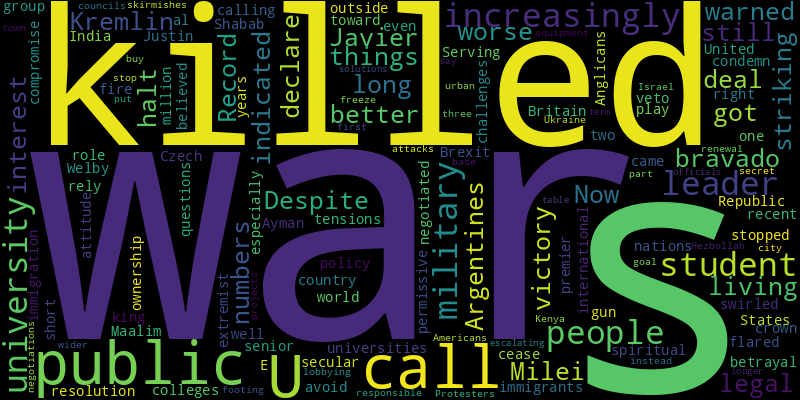
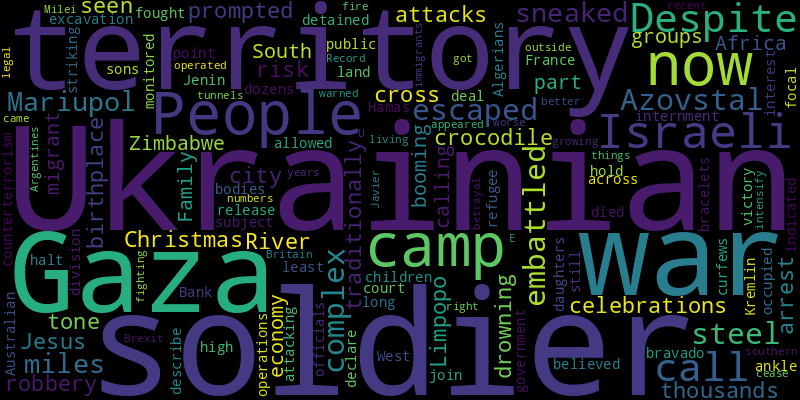
chore(bot): 👿 auto commit

diff --git a/README.md b/README.md
@@ -2,32 +2,33 @@
 Auto RSS New York Times and Generate Word Cloud
 
 ## New York Times Global News
+* How a Ukrainian soldier escaped from the embattled Azovstal steel complex in Mariupol and sneaked 125 miles to Ukrainian territory.
+* The war in Gaza has prompted the city, traditionally seen as the birthplace of Jesus, to tone down its Christmas celebrations.
+* People by the thousands risk crocodile attacks, robbery, drowning and arrest to cross the Limpopo River from Zimbabwe to South Africa, part of a booming migrant economy.
+* Family groups have been calling for the excavation of land believed to hold the bodies of at least 50 children — the sons and daughters of Algerians who fought for France — who died in internment camps.
+* An Australian high court allowed the release of dozens of detained people who are now subject to curfews and monitored by the government with ankle bracelets.
+* The Jenin refugee camp in the Israeli-occupied West Bank is a focal point of what Israeli officials describe as counterterrorism operations across the territory.
 * Despite its bravado in public, the Kremlin has indicated its interest in striking a deal to halt the war — so long as it could still declare victory.
+* More soldiers would join a division attacking Hamas-operated tunnels in southern Gaza. Despite growing calls for a cease-fire, fighting appeared to intensify.
 * Javier Milei warned that things would get worse before they got better. Now Argentines are living it.
 * Record numbers of legal immigrants came to Britain from outside the E.U. in recent years. Some on the right call that a “Brexit betrayal.”
-* The country’s public colleges and universities increasingly rely on international students, especially from India, even as tensions between the two nations have flared.
-* The compromise resolution, negotiated to avoid a veto from the United States, stopped well short of calling for a cease-fire.
-* Serving as the spiritual leader of 85 million Anglicans in an increasingly secular world is just one of the challenges for Justin Welby. He also had a king to crown and immigration policy to condemn.
-* After a student killed 14 people at a premier university, questions swirled. Did the Czech Republic’s permissive attitude toward gun ownership play a role?
-* Maalim Ayman, a senior leader of the extremist group al-Shabab, was believed responsible for attacks in Kenya on a university town that killed 148 people, and on a U.S. military base that killed three Americans.
-* Protesters are lobbying city councils to freeze urban renewal projects and buy military equipment instead, part of a wider call to put Ukraine on a war footing.
-* The first goal of the secret negotiations is to stop skirmishes between Israel and Hezbollah from escalating into an all-out war, but longer-term solutions are also on the table, officials say.
 
 ![Global](./global.png)
 ## New York Times United States News
-* The case was initially seen as an illustration of the city’s crime and homelessness woes. Further evidence challenged that narrative.
-* The ruling, coming just months after liberals gained a 4-to-3 majority on the State Supreme Court, could undo gerrymanders that have given Republicans lopsided control of the State Legislature.
+* Domestic shootings are a small portion of the city’s violence, but victims’ advocates say the new spike is worrisome.
 * Peter Cichuniec and Jeremy Cooper were convicted of criminally negligent homicide, but the jury split on the assault charges, in an unusual prosecution of medical personnel.
-* Landon Bryant talks about grits, prayer lists and humidity, addressing a diverse audience bound by its fascination with a colorful, complicated place.
-* Mississippians say they’ve been shocked with Tasers, beaten with batons, pistol-whipped and waterboarded by Rankin County deputies, for decades.
-* This week’s debate over his very eligibility for office served as a stark reminder that anyone else facing such a wide array of legal problems would have left the political stage long ago.
-* In the past month alone, the Iranian-backed group has launched more than 100 attacks against commercial vessels in the Red Sea.
-* The former president’s claim that he is immune from prosecution will now be taken up by a federal appeals court — and could end up back in front of the justices within weeks.
+* The case was initially seen as an illustration of the city’s crime and homelessness woes. Further evidence challenged that narrative.
 * Testimony in a National Labor Relations Board hearing is challenging the amateurism model that has remained a bedrock of college athletics as it has evolved into a billion-dollar business.
-* Candidates for the Senate and House have expressed concern that the president has not done enough to build an operation or excite voters.
+* The Florida governor entered the year flush with cash and momentum. In the months since, internal chaos and Donald Trump’s indictments have sapped even his most avid supporters.
+* Red Rock Island, a big outcropping several miles from San Francisco, has been listed for $25 million. A visit finds, well, not much.
+* The war in Vietnam ignited a protest movement that helped define a generation. Is the war between Israel and Hamas doing the same thing?
+* The Supreme Court justice has built a network of former clerks who share messages, meals and a common vision — wielding influence at universities, law firms and the highest rungs of government.
+* As President Biden grapples with an unwieldy crisis at the southern border, his likely 2024 rival has leveled many criticisms — including some baseless and misleading claims.
+* The stakes for Russia in the presidential vote are large. Other adversaries also might try to deepen divisions among American voters.
 
 ![US](./usnews.png)
 ## New York Times Asia News
+* The stakes for Russia in the presidential vote are large. Other adversaries also might try to deepen divisions among American voters.
 * The country is moving to curb the industry’s punishing work hours. But that could leave a shortfall that disrupts Japan’s entire logistics system.
 * The arrest of the 50-year-old driver highlighted the strict law in Japan against harming the birds, even if they take over balconies or get in the way of traffic.
 * The policy change could shore up American supplies of the weapon, allowing Washington to send more to Ukraine to help in its war against Russia.
@@ -37,6 +38,5 @@ Auto RSS New York Times and Generate Word Cloud
 * Plus, how wealthy was the family in “Home Alone”?
 * Tokyo appears ready to adjust rules to allow the export of the weapons to the United States, a move that could help Washington support Ukraine’s fight against Russia.
 * The country’s trade with Russia this year has exceeded $200 billion, and makers of cars and trucks are the big winners.
-* Plus the top social media trends of 2023.
 
 ![Asian](./asian.png)
